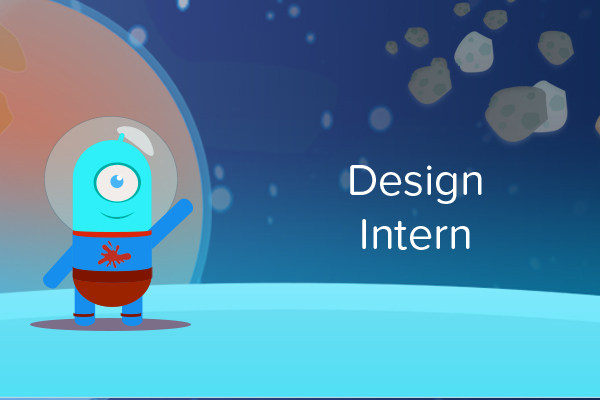
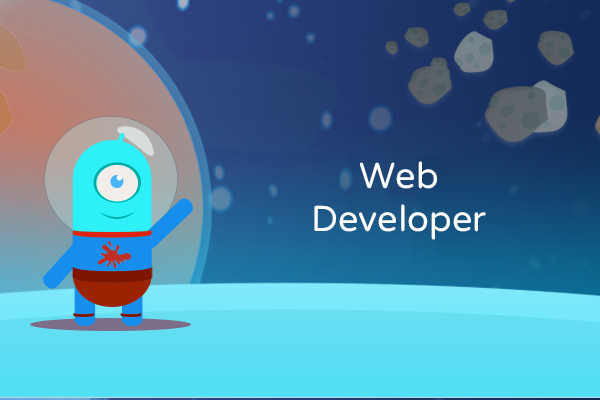
> Check

Changed region(s): [[0.51, 0.39, 0.81, 0.63]]

diff --git a/resources/views/website/jobs.blade.php b/resources/views/website/jobs.blade.php
@@ -37,6 +37,15 @@ KONAMI CODE MOFO
         <link rel="icon" href="favicon.ico" type="image/x-icon">
         <link rel="stylesheet" href="css/prelaunch/app.css">
         <script src="js/modernizr/modernizr.min.js"></script>
+        <style>
+            html, body {
+                height: 100%;
+            }
+
+            body {
+                background-color: #e7f2f4;
+            }
+        </style>
     </head>
     <body>
         <!--[if IE 8]>
@@ -45,18 +54,29 @@ KONAMI CODE MOFO
 
         <div class="job-wrapper">
             <header class="job-banner">
-                <div class="logo">
-                    <img src="assets/img/banner/logo-zapzap.png" alt="">
+                <nav class="main-menu">
+                    <ul class="menu-list">
+                        <li><a href="/pre-launch">Home</a></li>
+                        <li><a href="blog.zapzapmath.com" target="_blank">Blog</a></li>
+                        <li><a href="/contributors">Contributors</a></li>
+                    </ul>
+                </nav>
+
+                <div class="row cf">
+                    <div class="badge-box">
+                        <img src="assets/img/jobs/job-badge.png" alt="">
+                    </div>
+                    <div class="text-box">
+                        <h2>Team Building</h2>
+                        <p>
+                            We are building a world class team with a mission to make learning math fun and easy with our suite of digital learning tools and content. Here, we perfectly blend math instruction, visual graphics and gamification that result in greater degree of learning.
+                        </p>
+                    </div>
                 </div>
             </header>
 
             <div class="jobs-main-content">
                 <div class="inner-job-wrapper">
-                    <h2>Team Building</h2>
-                    <p class="job-section-desc">
-                        We are building a world class team with a mission to make to learn and practice math more effectively with our suite of digital learning tools and content. Here, we perfectly blend math instruction, visual graphics and gamification that result in greater degree of learning. Also, by making everything available online, math will be much more fun and go beyond the restricted borders of local classrooms to reach students wherever they are, the world over!
-                    </p>
-
                     <h2>Positions</h2>
                     <p class="job-section-desc">
                         We are looking for team players in the following positions:-
@@ -109,31 +129,46 @@ KONAMI CODE MOFO
                                         <img src="assets/img/jobs/web-developer-large.jpg" alt="img02"/>
                                     </div>
                                     <p class="dummy-text bold">
-                                        Design Intern a.k.a. Artistic Tenderfoot
+                                        Web Developer (Front-end) a.k.a. Spider
                                     </p>
                                     <p class="dummy-text">
                                         A good design is not just a pretty interface. It should be functional, versatile and continuously improved to better meet user goals. Our little team is looking for artists to help positively power our imagination engines.
                                     </p>
-                                    <p class="dummy-text bold job-heading">RESPONSIBILITY</p>
+                                    <p class="dummy-text bold job-heading">WE ARE LOOKING FOR</p>
                                     <ul class="dummy-text job-desc-list">
-                                        <li>assist in the development of the User Interface</li>
-                                        <li>conceptualization and creation of Game Art Assets</li>
-                                        <li>interaction design</li>
+                                        <li>A passionate developer who can build user interfaces that are both responsive and responsible</li>
+                                        <li>Fluent communicator who can work in a team with both technical and non-technical team mates</li>
+                                        <li>Must be willing to self-learn and self-start</li>
+                                        <li>Willing to work in a startup environment</li>
                                     </ul>
                                     <p class="dummy-text bold job-heading">DUTIES</p>
                                     <ul class="dummy-text job-desc-list">
-                                        <li>to assist in designing for print, websites and mobile applications</li>
-                                        <li>participate in brainstorming to continuously improve user experience</li>
+                                        <li>Adapt design mockups into clean and semantic markup</li>
+                                        <li>Develop and maintain web applications</li>
+                                        <li>Work closely with designers to enhance UX and UI</li>
+                                        <li>Consume API provided by the backend</li>
                                     </ul>
                                     <p class="dummy-text bold job-heading">SKILLS</p>
                                     <ul class="dummy-text job-desc-list">
-                                        <li>Photoshop</li>
-                                        <li>Illustrator</li>
-                                        <li>Basic animarion knowledge</li>
+                                        <li>HTML5 &amp; CSS3</li>
+                                        <li>SASS &amp; LESS</li>
+                                        <li>Javascript (jQuery)</li>
+                                        <li>Responsive Web Design</li>
+                                        <li>Adobe Creative Suite</li>
+                                        <li>Github</li>
+                                        <li>Foundation, Bootstrap or Semantic UI</li>
+                                        <li>Experience working with APIs - AJAX, JSON</li>
+                                        <li>Some knowledge of the PHP framework, Laravel</li>
+                                        <li>Bonus: Experience with WordPress development</li>
+                                        <li>Bonus: Experience with AngularJS</li>
                                     </ul>
                                     <p class="dummy-text bold job-heading">QUALIFICATION</p>
                                     <p class="dummy-text">
-                                        Pursuing a Degree in Graphic Design or equivalent
+                                        Degree in Computer Science or Information Technology or equivalent
+                                    </p>
+                                    <p class="dummy-text bold job-heading">LANGUAGE</p>
+                                    <p class="dummy-text">
+                                        Knowledge in HTML5, CSS, Javascript, PHP (Laravel Framework)
                                     </p>
                                 </div>
                                 <div>
@@ -207,19 +242,7 @@ KONAMI CODE MOFO
                 </div><!--inner-job-wrapper-->
                
 
-                <footer class="cf">
-                    <div class="copyright push-left">
-                        <p>Copyright &copy; <span id="year" class="year"></span> <a href="javascript:void(0);">Visual Math Interactive</a> All rights reserved. <a href="/terms">Terms of Use</a> | <a href="/privacy">Privacy</a></p>
-                    </div>
-
-                    <div class="nav-footer push-right">
-                        <ul>
-                            <li><a href="http://zapzapmath.com/pre-launch/">Home</a></li>
-                            <li class="divider">|</li>
-                            <li><a href="http://blog.zapzapmath.com" target="_blank">Blog</a></li>
-                        </ul>
-                    </div>
-                </footer>
+                <div class="footer-fader"></div>
             </div><!--main-content-->
 
             <a id="btn-to-top" class="btn-to-top" href="javascript:void(0);">
